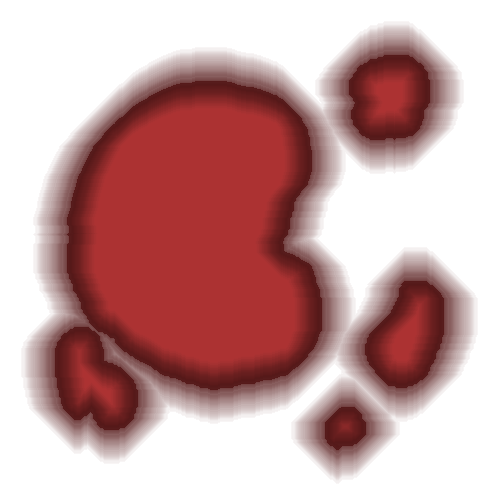
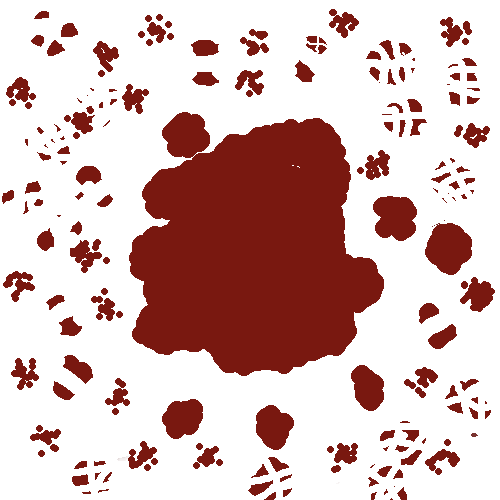
血液画像とパーティクルを少し変えた

diff --git a/CompanySlave/3d/ParticleManager.cpp b/CompanySlave/3d/ParticleManager.cpp
@@ -139,33 +139,33 @@ void ParticleManager::ParticleAdd(Vec3 Pos, float md_vel, float md_vel2, Vec4 st
 		//左右
 		if (particleDirection == 0 || particleDirection == 1) {
 
-			vel.x = (float)rand() / RAND_MAX * md_vel;
-			vel.y = (float)rand() / RAND_MAX * md_vel - md_vel / 2.0f;
-			vel.z = (float)rand() / RAND_MAX * md_vel - md_vel / 2.0f;
+			vel.x += (float)rand() / RAND_MAX * md_vel;
+			vel.y += (float)rand() / RAND_MAX * md_vel - md_vel / 2.0f;
+			vel.z += (float)rand() / RAND_MAX * md_vel - md_vel / 2.0f;
 		}
 		//上下
 		if (particleDirection == 2 || particleDirection == 3) {
 
-			vel.x = (float)rand() / RAND_MAX * md_vel - md_vel / 2.0f;
-			vel.y = (float)rand() / RAND_MAX * md_vel - md_vel / 2.0f;
-			vel.z = (float)rand() / RAND_MAX * md_vel;
+			vel.x += (float)rand() / RAND_MAX * md_vel - md_vel / 2.0f;
+			vel.y += (float)rand() / RAND_MAX * md_vel - md_vel / 2.0f;
+			vel.z += (float)rand() / RAND_MAX * md_vel;
 		}
 		//斜め
 		if (particleDirection == 4 || particleDirection == 5 || particleDirection == 6 || particleDirection == 7) {
 
-			vel.x = (float)rand() / RAND_MAX * md_vel;
-			vel.y = (float)rand() / RAND_MAX * md_vel - md_vel / 2.0f;
-			vel.z = (float)rand() / RAND_MAX * md_vel2;
+			vel.x += (float)rand() / RAND_MAX * md_vel;
+			vel.y += (float)rand() / RAND_MAX * md_vel - md_vel / 2.0f;
+			vel.z += (float)rand() / RAND_MAX * md_vel2;
 		}
 		//重力に見立ててYのみ{-0.001f,0}でランダム分布
 		Vec3 acc{};
-		const float md_acc = 0.001f;
-		acc.y = (float)rand() / RAND_MAX * md_acc;
+		const float md_acc = 0.011f;
+		acc.z = (float)rand() / RAND_MAX * md_acc;
 
 		//	Vec4 start_color = { 1.0f,1.0f,1.0f,1.0f };
 		//	Vec4 end_color = { 1.0f,1.0f,1.0f,1.0f };
 			//追加
-		Add(10, pos, vel, acc, 0.5f, 0.5f, start_color, end_color);
+		Add(15, pos, vel, acc, 4.0f, 0.3f, start_color, end_color);
 	}
 }
 
